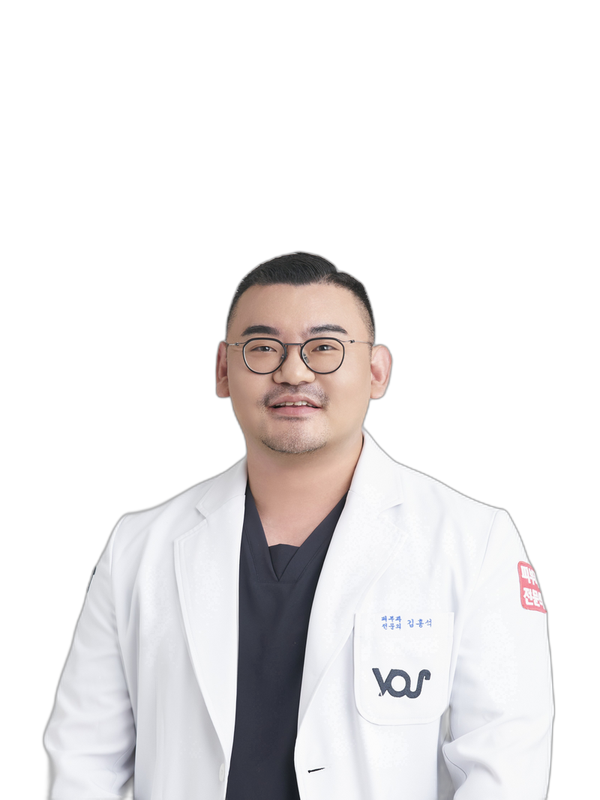
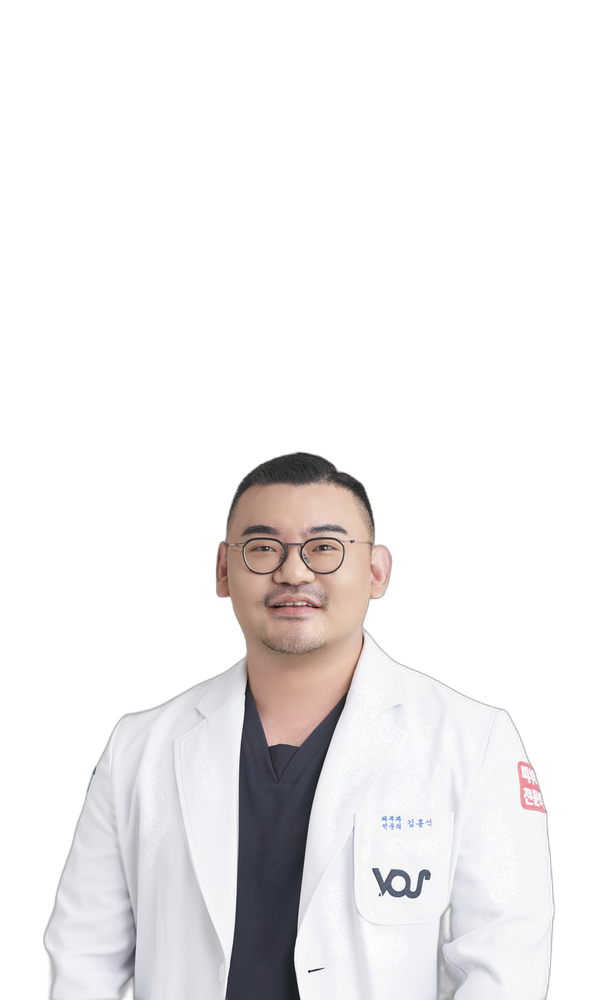
누끼 캔버스 600x800 → 600x1000으로 확장 (위 여백 추가)
인물은 그대로 하단 배치, 위쪽 200px 투명 여백 → hero에서 머리가
컨테이너 상단에 붙지 않고 자연스러운 여백을 가지고 표시됨

diff --git a/clinic/foret/index.html b/clinic/foret/index.html
@@ -23,7 +23,7 @@
   <link href="https://fonts.googleapis.com/css2?family=Noto+Sans+KR:wght@300;400;500;600;700;800&display=swap" rel="stylesheet">
   <link rel="stylesheet" href="https://unpkg.com/leaflet@1.9.4/dist/leaflet.css" />
   <link rel="stylesheet" href="https://cdnjs.cloudflare.com/ajax/libs/font-awesome/6.5.1/css/all.min.css" />
-  <link rel="stylesheet" href="css/style.css?v=20260501l">
+  <link rel="stylesheet" href="css/style.css?v=20260501m">
 </head>
 <body>
   <!-- Navigation -->
@@ -57,6 +57,6 @@
   </footer>
 
   <script src="https://unpkg.com/leaflet@1.9.4/dist/leaflet.js"></script>
-  <script src="js/app.js?v=20260501l"></script>
+  <script src="js/app.js?v=20260501m"></script>
 </body>
 </html>

diff --git a/clinic/healhouse-gangnam/index.html b/clinic/healhouse-gangnam/index.html
@@ -23,7 +23,7 @@
   <link href="https://fonts.googleapis.com/css2?family=Noto+Sans+KR:wght@300;400;500;600;700;800&display=swap" rel="stylesheet">
   <link rel="stylesheet" href="https://unpkg.com/leaflet@1.9.4/dist/leaflet.css" />
   <link rel="stylesheet" href="https://cdnjs.cloudflare.com/ajax/libs/font-awesome/6.5.1/css/all.min.css" />
-  <link rel="stylesheet" href="css/style.css?v=20260501l">
+  <link rel="stylesheet" href="css/style.css?v=20260501m">
 </head>
 <body>
   <!-- Navigation -->
@@ -57,6 +57,6 @@
   </footer>
 
   <script src="https://unpkg.com/leaflet@1.9.4/dist/leaflet.js"></script>
-  <script src="js/app.js?v=20260501l"></script>
+  <script src="js/app.js?v=20260501m"></script>
 </body>
 </html>

diff --git a/clinic/hev-sinsa/index.html b/clinic/hev-sinsa/index.html
@@ -23,7 +23,7 @@
   <link href="https://fonts.googleapis.com/css2?family=Noto+Sans+KR:wght@300;400;500;600;700;800&display=swap" rel="stylesheet">
   <link rel="stylesheet" href="https://unpkg.com/leaflet@1.9.4/dist/leaflet.css" />
   <link rel="stylesheet" href="https://cdnjs.cloudflare.com/ajax/libs/font-awesome/6.5.1/css/all.min.css" />
-  <link rel="stylesheet" href="css/style.css?v=20260501l">
+  <link rel="stylesheet" href="css/style.css?v=20260501m">
 </head>
 <body>
   <!-- Navigation -->
@@ -57,6 +57,6 @@
   </footer>
 
   <script src="https://unpkg.com/leaflet@1.9.4/dist/leaflet.js"></script>
-  <script src="js/app.js?v=20260501l"></script>
+  <script src="js/app.js?v=20260501m"></script>
 </body>
 </html>

diff --git a/clinic/human-pyeongtaek/index.html b/clinic/human-pyeongtaek/index.html
@@ -23,7 +23,7 @@
   <link href="https://fonts.googleapis.com/css2?family=Noto+Sans+KR:wght@300;400;500;600;700;800&display=swap" rel="stylesheet">
   <link rel="stylesheet" href="https://unpkg.com/leaflet@1.9.4/dist/leaflet.css" />
   <link rel="stylesheet" href="https://cdnjs.cloudflare.com/ajax/libs/font-awesome/6.5.1/css/all.min.css" />
-  <link rel="stylesheet" href="css/style.css?v=20260501l">
+  <link rel="stylesheet" href="css/style.css?v=20260501m">
 </head>
 <body>
   <!-- Navigation -->
@@ -57,6 +57,6 @@
   </footer>
 
   <script src="https://unpkg.com/leaflet@1.9.4/dist/leaflet.js"></script>
-  <script src="js/app.js?v=20260501l"></script>
+  <script src="js/app.js?v=20260501m"></script>
 </body>
 </html>

diff --git a/clinic/vos/index.html b/clinic/vos/index.html
@@ -23,7 +23,7 @@
   <link href="https://fonts.googleapis.com/css2?family=Noto+Sans+KR:wght@300;400;500;600;700;800&display=swap" rel="stylesheet">
   <link rel="stylesheet" href="https://unpkg.com/leaflet@1.9.4/dist/leaflet.css" />
   <link rel="stylesheet" href="https://cdnjs.cloudflare.com/ajax/libs/font-awesome/6.5.1/css/all.min.css" />
-  <link rel="stylesheet" href="css/style.css?v=20260501l">
+  <link rel="stylesheet" href="css/style.css?v=20260501m">
 </head>
 <body>
   <!-- Navigation -->
@@ -57,6 +57,6 @@
   </footer>
 
   <script src="https://unpkg.com/leaflet@1.9.4/dist/leaflet.js"></script>
-  <script src="js/app.js?v=20260501l"></script>
+  <script src="js/app.js?v=20260501m"></script>
 </body>
 </html>

diff --git a/dermatologist/bae-jungmin/index.html b/dermatologist/bae-jungmin/index.html
@@ -23,7 +23,7 @@
   <link href="https://fonts.googleapis.com/css2?family=Noto+Sans+KR:wght@300;400;500;600;700;800&display=swap" rel="stylesheet">
   <link rel="stylesheet" href="https://unpkg.com/leaflet@1.9.4/dist/leaflet.css" />
   <link rel="stylesheet" href="https://cdnjs.cloudflare.com/ajax/libs/font-awesome/6.5.1/css/all.min.css" />
-  <link rel="stylesheet" href="css/style.css?v=20260501l">
+  <link rel="stylesheet" href="css/style.css?v=20260501m">
 </head>
 <body>
   <!-- Navigation -->
@@ -57,6 +57,6 @@
   </footer>
 
   <script src="https://unpkg.com/leaflet@1.9.4/dist/leaflet.js"></script>
-  <script src="js/app.js?v=20260501l"></script>
+  <script src="js/app.js?v=20260501m"></script>
 </body>
 </html>

diff --git a/dermatologist/gye-jiwon/index.html b/dermatologist/gye-jiwon/index.html
@@ -23,7 +23,7 @@
   <link href="https://fonts.googleapis.com/css2?family=Noto+Sans+KR:wght@300;400;500;600;700;800&display=swap" rel="stylesheet">
   <link rel="stylesheet" href="https://unpkg.com/leaflet@1.9.4/dist/leaflet.css" />
   <link rel="stylesheet" href="https://cdnjs.cloudflare.com/ajax/libs/font-awesome/6.5.1/css/all.min.css" />
-  <link rel="stylesheet" href="css/style.css?v=20260501l">
+  <link rel="stylesheet" href="css/style.css?v=20260501m">
 </head>
 <body>
   <!-- Navigation -->
@@ -57,6 +57,6 @@
   </footer>
 
   <script src="https://unpkg.com/leaflet@1.9.4/dist/leaflet.js"></script>
-  <script src="js/app.js?v=20260501l"></script>
+  <script src="js/app.js?v=20260501m"></script>
 </body>
 </html>

diff --git a/dermatologist/jung-hanmi/index.html b/dermatologist/jung-hanmi/index.html
@@ -23,7 +23,7 @@
   <link href="https://fonts.googleapis.com/css2?family=Noto+Sans+KR:wght@300;400;500;600;700;800&display=swap" rel="stylesheet">
   <link rel="stylesheet" href="https://unpkg.com/leaflet@1.9.4/dist/leaflet.css" />
   <link rel="stylesheet" href="https://cdnjs.cloudflare.com/ajax/libs/font-awesome/6.5.1/css/all.min.css" />
-  <link rel="stylesheet" href="css/style.css?v=20260501l">
+  <link rel="stylesheet" href="css/style.css?v=20260501m">
 </head>
 <body>
   <!-- Navigation -->
@@ -57,6 +57,6 @@
   </footer>
 
   <script src="https://unpkg.com/leaflet@1.9.4/dist/leaflet.js"></script>
-  <script src="js/app.js?v=20260501l"></script>
+  <script src="js/app.js?v=20260501m"></script>
 </body>
 </html>

diff --git a/dermatologist/jung-jongheon/index.html b/dermatologist/jung-jongheon/index.html
@@ -23,7 +23,7 @@
   <link href="https://fonts.googleapis.com/css2?family=Noto+Sans+KR:wght@300;400;500;600;700;800&display=swap" rel="stylesheet">
   <link rel="stylesheet" href="https://unpkg.com/leaflet@1.9.4/dist/leaflet.css" />
   <link rel="stylesheet" href="https://cdnjs.cloudflare.com/ajax/libs/font-awesome/6.5.1/css/all.min.css" />
-  <link rel="stylesheet" href="css/style.css?v=20260501l">
+  <link rel="stylesheet" href="css/style.css?v=20260501m">
 </head>
 <body>
   <!-- Navigation -->
@@ -57,6 +57,6 @@
   </footer>
 
   <script src="https://unpkg.com/leaflet@1.9.4/dist/leaflet.js"></script>
-  <script src="js/app.js?v=20260501l"></script>
+  <script src="js/app.js?v=20260501m"></script>
 </body>
 </html>

diff --git a/dermatologist/kim-hongseok/index.html b/dermatologist/kim-hongseok/index.html
@@ -23,7 +23,7 @@
   <link href="https://fonts.googleapis.com/css2?family=Noto+Sans+KR:wght@300;400;500;600;700;800&display=swap" rel="stylesheet">
   <link rel="stylesheet" href="https://unpkg.com/leaflet@1.9.4/dist/leaflet.css" />
   <link rel="stylesheet" href="https://cdnjs.cloudflare.com/ajax/libs/font-awesome/6.5.1/css/all.min.css" />
-  <link rel="stylesheet" href="css/style.css?v=20260501l">
+  <link rel="stylesheet" href="css/style.css?v=20260501m">
 </head>
 <body>
   <!-- Navigation -->
@@ -57,6 +57,6 @@
   </footer>
 
   <script src="https://unpkg.com/leaflet@1.9.4/dist/leaflet.js"></script>
-  <script src="js/app.js?v=20260501l"></script>
+  <script src="js/app.js?v=20260501m"></script>
 </body>
 </html>

diff --git a/dermatologist/lee-haeun/index.html b/dermatologist/lee-haeun/index.html
@@ -23,7 +23,7 @@
   <link href="https://fonts.googleapis.com/css2?family=Noto+Sans+KR:wght@300;400;500;600;700;800&display=swap" rel="stylesheet">
   <link rel="stylesheet" href="https://unpkg.com/leaflet@1.9.4/dist/leaflet.css" />
   <link rel="stylesheet" href="https://cdnjs.cloudflare.com/ajax/libs/font-awesome/6.5.1/css/all.min.css" />
-  <link rel="stylesheet" href="css/style.css?v=20260501l">
+  <link rel="stylesheet" href="css/style.css?v=20260501m">
 </head>
 <body>
   <!-- Navigation -->
@@ -57,6 +57,6 @@
   </footer>
 
   <script src="https://unpkg.com/leaflet@1.9.4/dist/leaflet.js"></script>
-  <script src="js/app.js?v=20260501l"></script>
+  <script src="js/app.js?v=20260501m"></script>
 </body>
 </html>

diff --git a/dermatologist/lee-seolhee/index.html b/dermatologist/lee-seolhee/index.html
@@ -23,7 +23,7 @@
   <link href="https://fonts.googleapis.com/css2?family=Noto+Sans+KR:wght@300;400;500;600;700;800&display=swap" rel="stylesheet">
   <link rel="stylesheet" href="https://unpkg.com/leaflet@1.9.4/dist/leaflet.css" />
   <link rel="stylesheet" href="https://cdnjs.cloudflare.com/ajax/libs/font-awesome/6.5.1/css/all.min.css" />
-  <link rel="stylesheet" href="css/style.css?v=20260501l">
+  <link rel="stylesheet" href="css/style.css?v=20260501m">
 </head>
 <body>
   <!-- Navigation -->
@@ -57,6 +57,6 @@
   </footer>
 
   <script src="https://unpkg.com/leaflet@1.9.4/dist/leaflet.js"></script>
-  <script src="js/app.js?v=20260501l"></script>
+  <script src="js/app.js?v=20260501m"></script>
 </body>
 </html>
